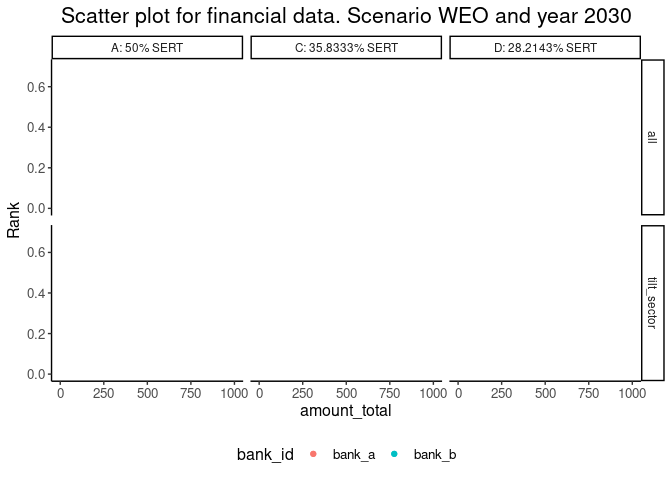
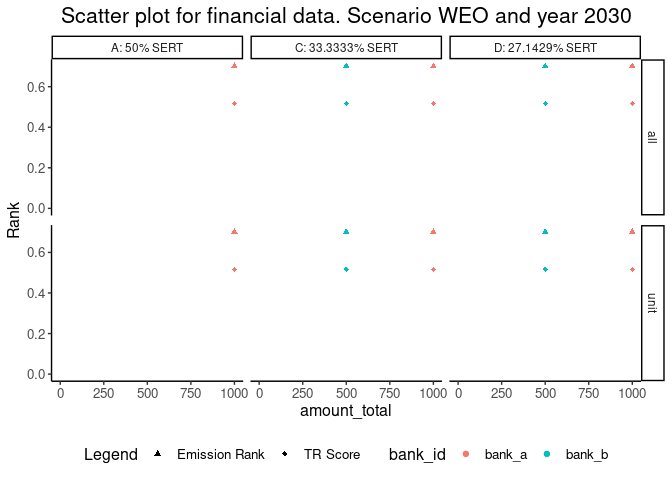
Quick minor fixes on scatter plot with financial data. (#105)
* fixed errors & added FIXME

* corrected filter

* used tidy style

diff --git a/README.md b/README.md
@@ -189,7 +189,7 @@ scenario <- "WEO"
 year <- 2030
 
 scatter_plot_financial(fin,
-  benchmarks = c("all", "tilt_sector"),
+  benchmarks = c("all", "unit"),
   mode = "worst_case",
   scenario = scenario,
   year = year
@@ -198,8 +198,6 @@ scatter_plot_financial(fin,
     "Scatter plot for financial data. Scenario", scenario,
     "and year", year
   ))
-#> Warning: Removed 88 rows containing missing values (`geom_point()`).
-#> Removed 88 rows containing missing values (`geom_point()`).
 ```
 
 <img src="man/figures/README-unnamed-chunk-13-1.png" width="100%" />
